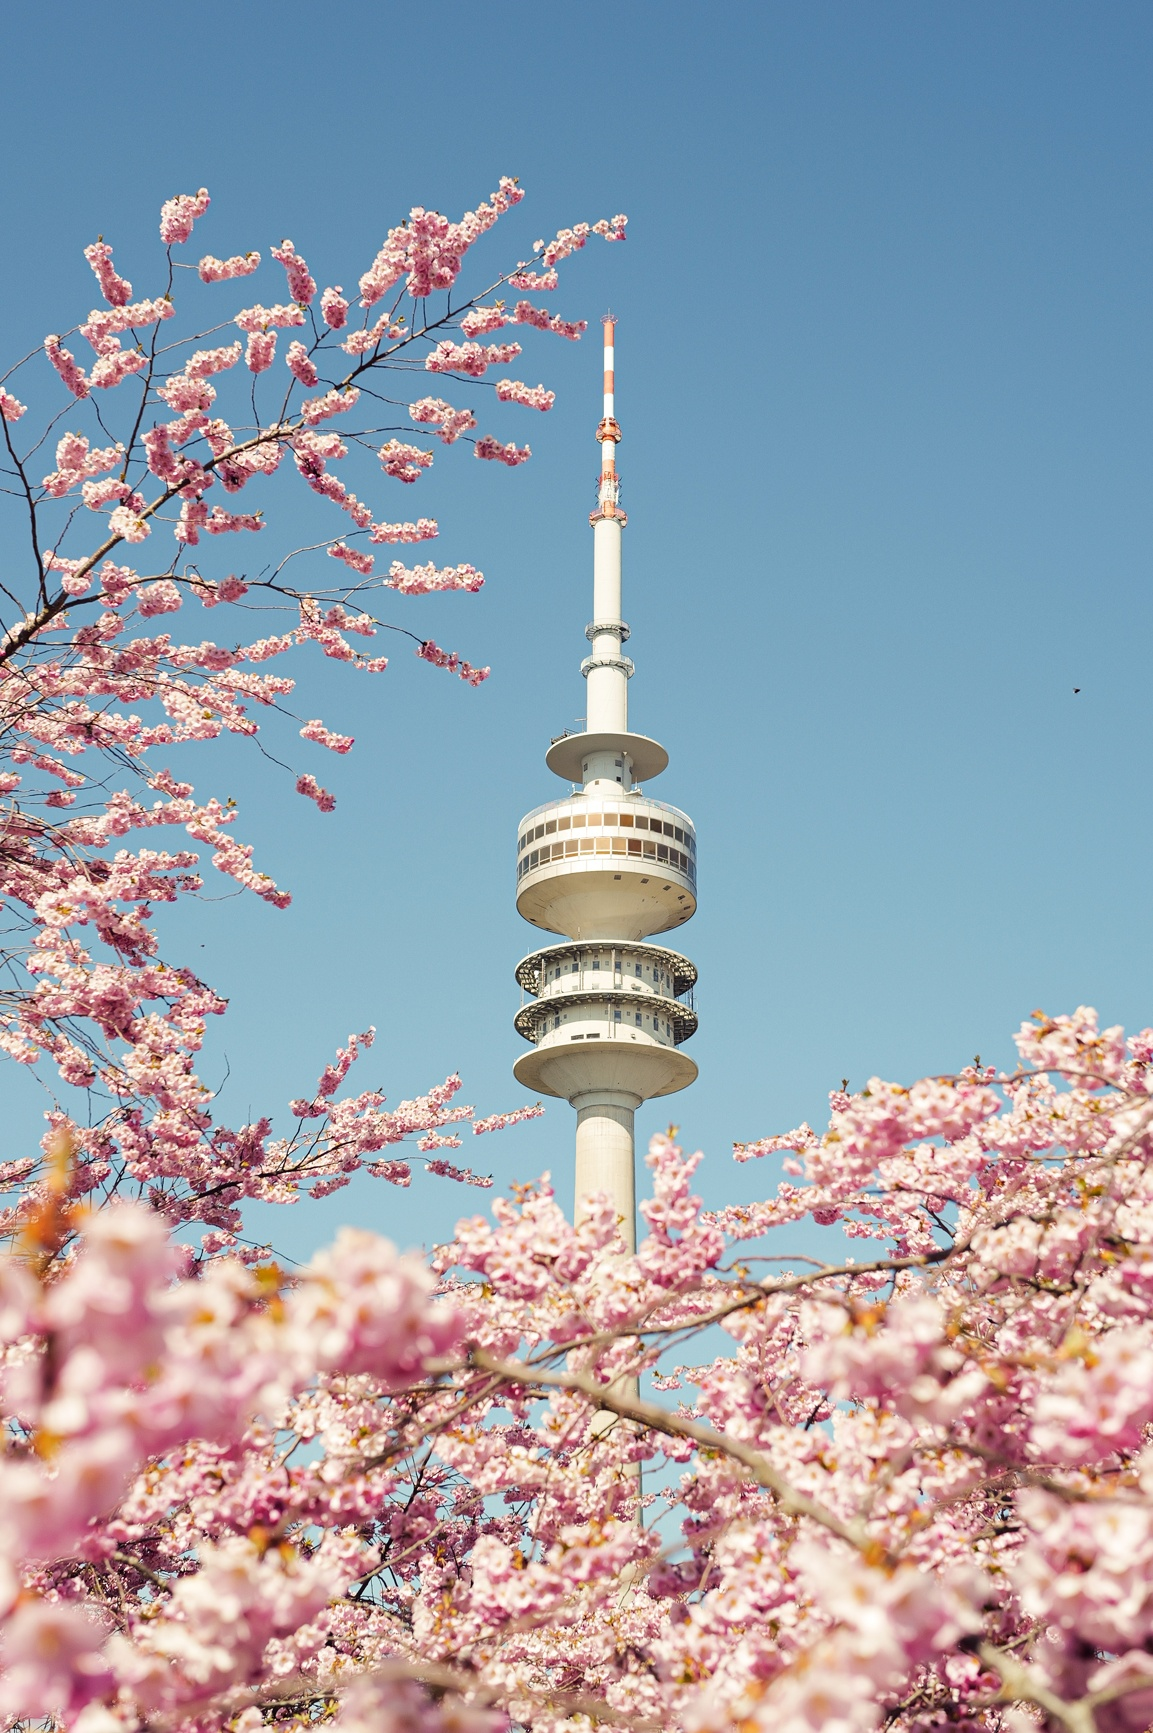
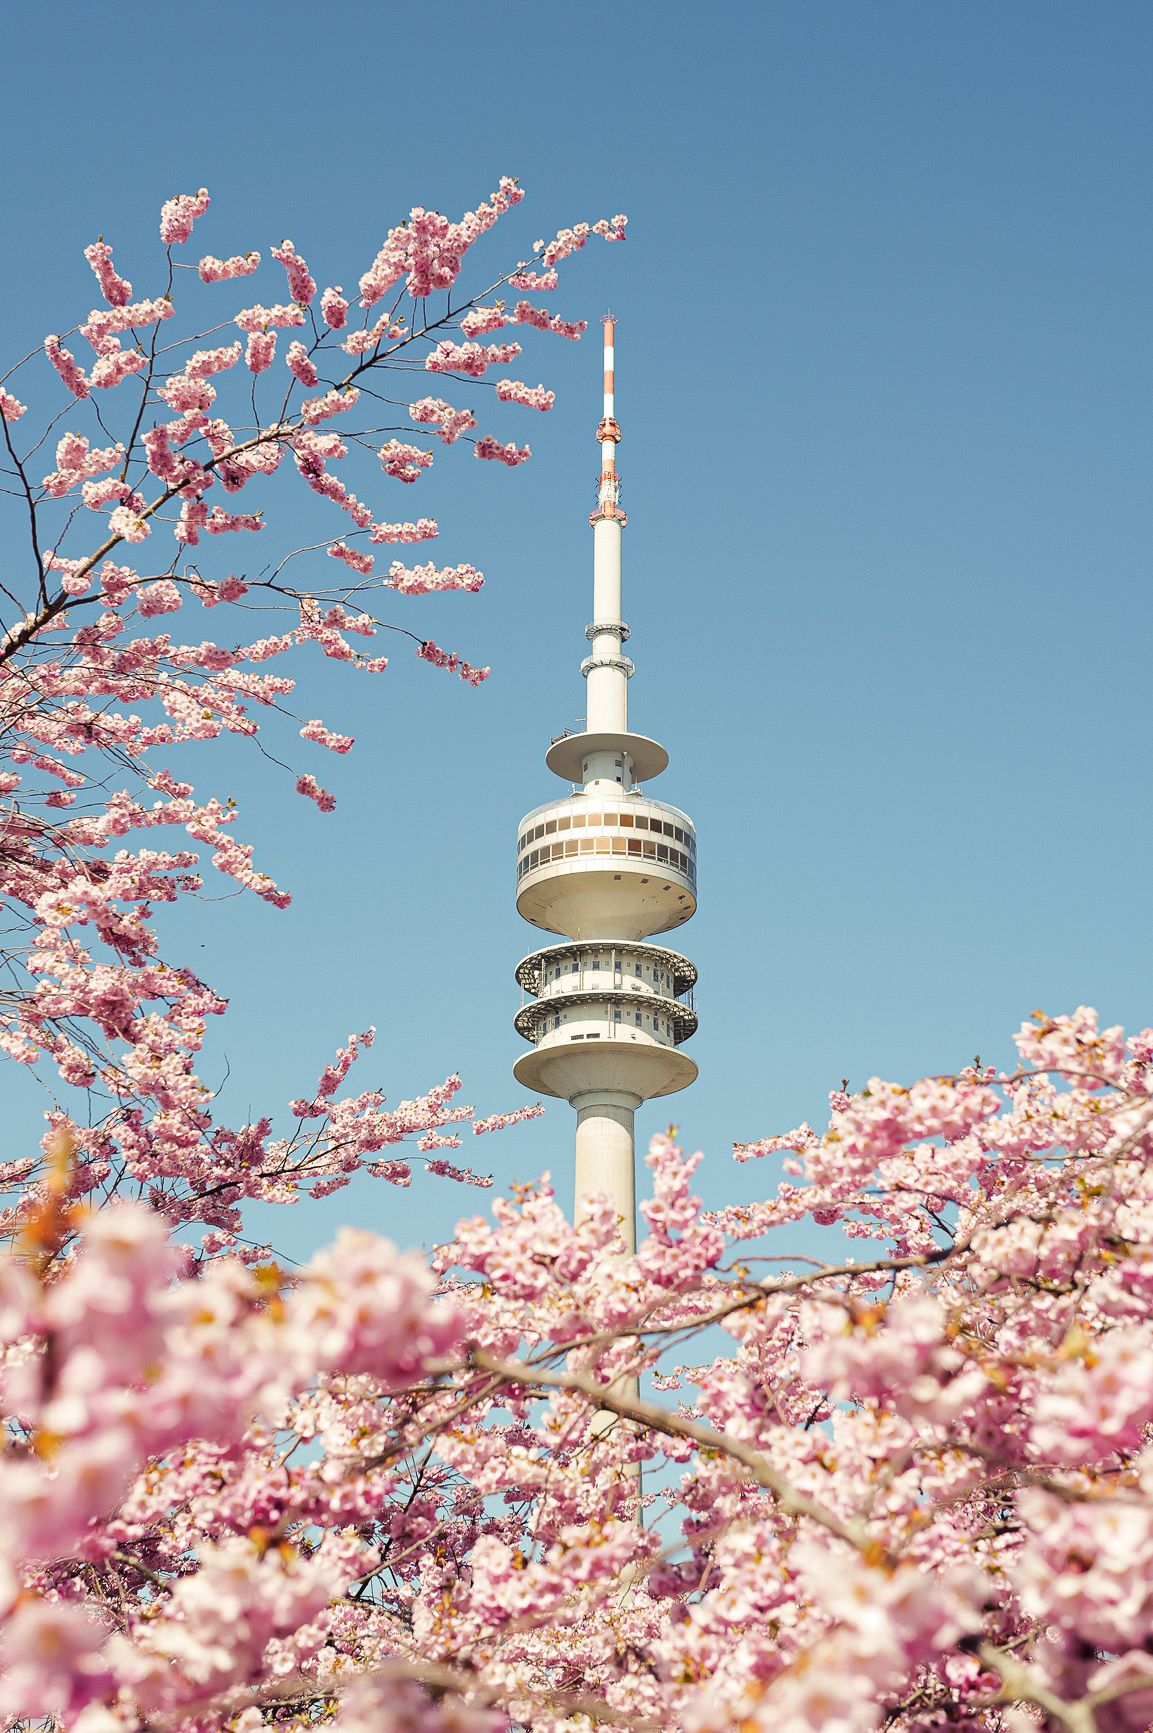
update reg. cherry blossom

diff --git a/munich/index.html b/munich/index.html
@@ -70,82 +70,6 @@
           </a>
         </div>
 
-        <div class="p-item grid-sizer portrait">
-          <a
-            class="venobox"
-            href="images/L1043781-2_med.jpg"
-            data-title="Cherry blossom in Olympic Park, 2026"
-          >
-            <img
-              class="lazy"
-              src="../images/logos/white_square.png"
-              data-src="images/L1043781-2_med.jpg"
-              width="1153"
-              height="1733"
-              alt=""
-              loading="lazy"
-              decoding="async"
-            />
-          </a>
-        </div>
-
-
-        <div class="p-item grid-sizer portrait">
-          <a
-            class="venobox"
-            href="images/L1043779-2_med.jpg"
-            data-title="Cherry blossom in Olympic Park, 2026"
-          >
-            <img
-              class="lazy"
-              src="../images/logos/white_square.png"
-              data-src="images/L1043779-2_med.jpg"
-              width="1153"
-              height="1733"
-              alt=""
-              loading="lazy"
-              decoding="async"
-            />
-          </a>
-        </div>
-
-        <div class="p-item grid-sizer landscape">
-          <a
-            class="venobox"
-            href="images/L1043789-Bearbeitet-3_med.jpg"
-            data-title="Cherry blossom in Olympic Park, 2026"
-          >
-            <img
-              class="lazy"
-              src="../images/logos/white_square.png"
-              data-src="images/L1043789-Bearbeitet-3_med.jpg"
-              width="1732"
-              height="1154"
-              alt=""
-              loading="lazy"
-              decoding="async"
-            />
-          </a>
-        </div>
-
-        <div class="p-item grid-sizer portrait">
-          <a
-            class="venobox"
-            href="images/L1043761-2_med.jpg"
-            data-title="Cherry blossom in Olympic Park, 2026"
-          >
-            <img
-              class="lazy"
-              src="../images/logos/white_square.png"
-              data-src="images/L1043761-2_med.jpg"
-              width="1153"
-              height="1733"
-              alt=""
-              loading="lazy"
-              decoding="async"
-            />
-          </a>
-        </div>
 
         <div class="p-item grid-sizer landscape">
           <a
@@ -242,6 +166,64 @@
           </a>
         </div>
 
+
+        <div class="p-item grid-sizer portrait">
+          <a
+            class="venobox"
+            href="images/L1043781-2_med.jpg"
+            data-title="Cherry blossom in Olympic Park, 2026"
+          >
+            <img
+              class="lazy"
+              src="../images/logos/white_square.png"
+              data-src="images/L1043781-2_med.jpg"
+              width="1153"
+              height="1733"
+              alt=""
+              loading="lazy"
+              decoding="async"
+            />
+          </a>
+        </div>
+
+        <div class="p-item grid-sizer landscape">
+          <a
+            class="venobox"
+            href="images/L1043789-Bearbeitet-3_med.jpg"
+            data-title="Cherry blossom in Olympic Park, 2026"
+          >
+            <img
+              class="lazy"
+              src="../images/logos/white_square.png"
+              data-src="images/L1043789-Bearbeitet-3_med.jpg"
+              width="1732"
+              height="1154"
+              alt=""
+              loading="lazy"
+              decoding="async"
+            />
+          </a>
+        </div>
+
+        <div class="p-item grid-sizer portrait">
+          <a
+            class="venobox"
+            href="images/L1043761-2_med.jpg"
+            data-title="Cherry blossom in Olympic Park, 2026"
+          >
+            <img
+              class="lazy"
+              src="../images/logos/white_square.png"
+              data-src="images/L1043761-2_med.jpg"
+              width="1153"
+              height="1733"
+              alt=""
+              loading="lazy"
+              decoding="async"
+            />
+          </a>
+        </div>
+        
         <div class="p-item grid-sizer portrait">
           <a
             class="venobox"
